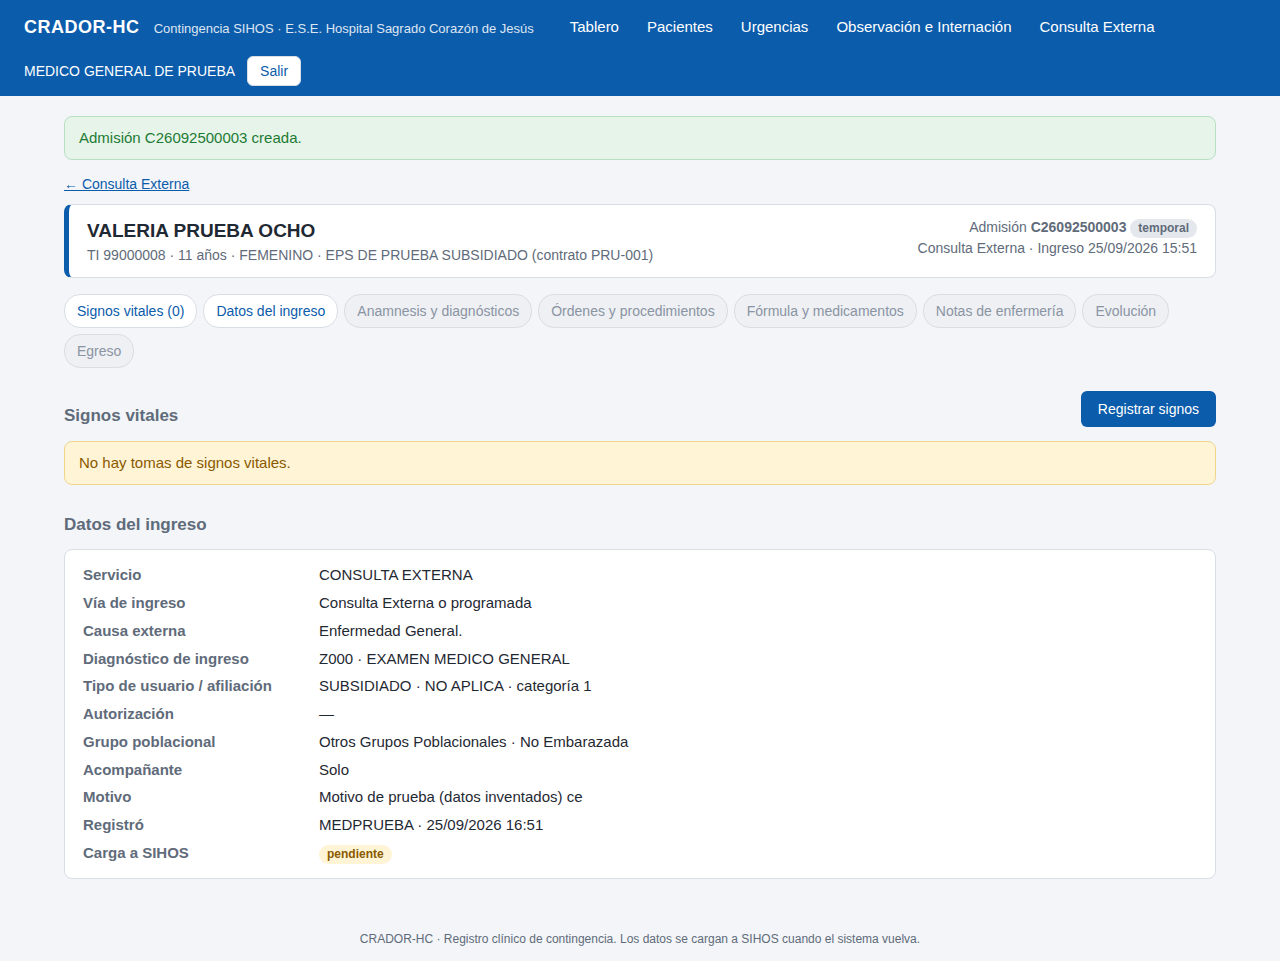
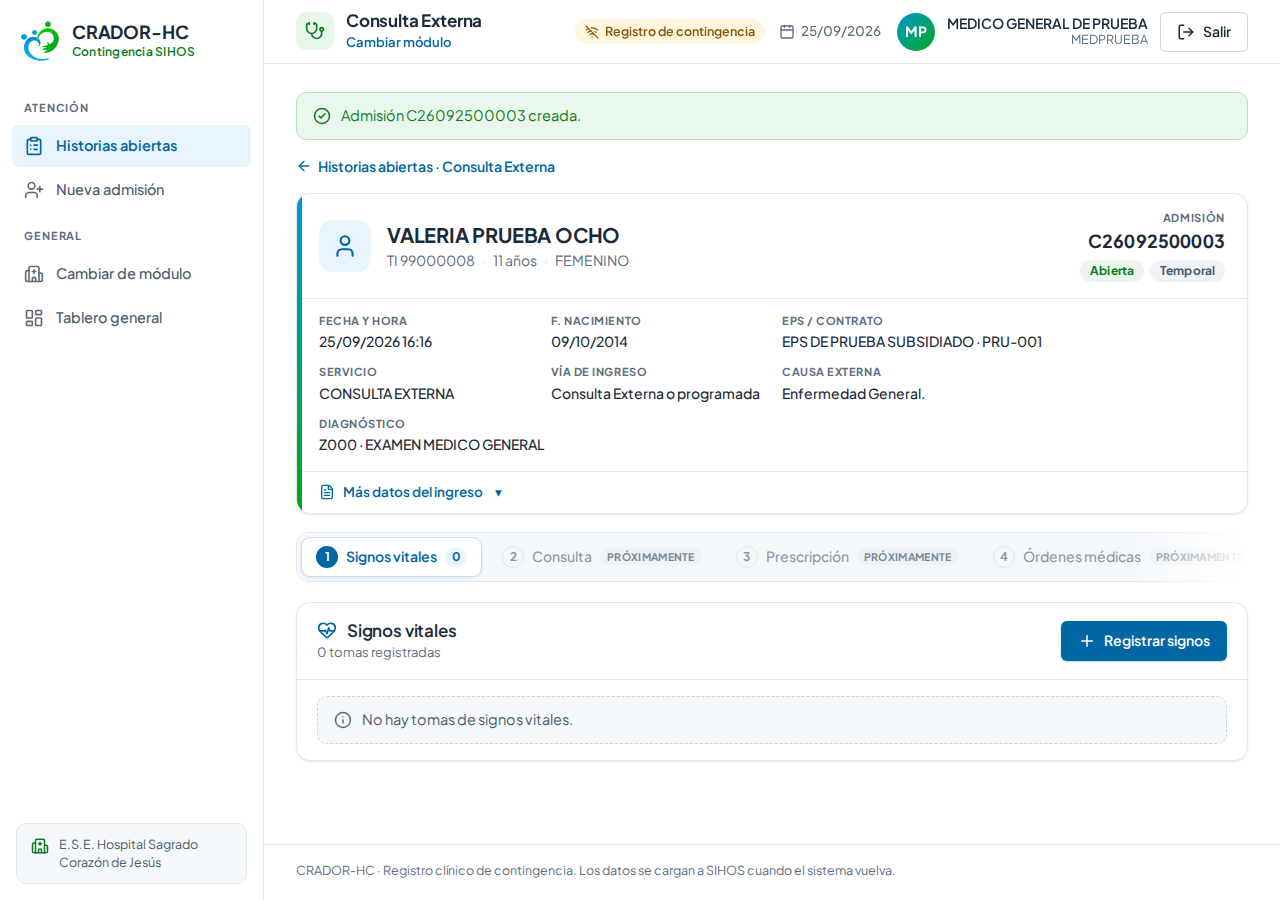
Rediseño: capturas finales, ajustes de tableta y documentación
- Barra superior en tableta: el aviso de contingencia se oculta si no cabe.
- Capturas nuevas en docs/capturas (01-19 con el nuevo diseño, 20-22 y 24 en
  celular, 23 selección de módulo) y el recorrido Playwright que las genera.
- README: sección de interfaz (flujo por módulo, sin CDN, licencias de fuente
  e íconos).

Claude-Session: https://claude.ai/code/session_017ALaGb5ozehGzL6nuyPcYx

diff --git a/docs/capturas/recorrido.js b/docs/capturas/recorrido.js
@@ -1,0 +1,117 @@
+const { chromium } = require('playwright');
+const B = 'http://localhost:8080/';
+const OUT = process.env.OUT || './capturas';
+const fs = require('fs'); fs.mkdirSync(OUT, { recursive: true });
+let n = 0;
+// Captura de pagina completa. num: numero fijo (si no, el siguiente de la secuencia 01..19)
+async function foto(p, nombre, num) {
+  if (!num) n++; const f = `${OUT}/${String(num || n).padStart(2, '0')}_${nombre}.png`;
+  await p.evaluate(() => window.scrollTo(0, 0)); await p.waitForTimeout(150);
+  await p.screenshot({ path: f, fullPage: true }); console.log('FOTO', f);
+}
+async function estado(p, etiqueta) {
+  const alertas = await p.$$eval('.alerta, .error-campo', els => els.map(e => e.innerText.trim()));
+  console.log('--', etiqueta, p.url(), JSON.stringify(alertas));
+}
+async function primeraOpcion(p, sel) {
+  const v = await p.$eval(sel, s => { const o = [...s.options].find(o => o.value); return s.value || (o ? o.value : ''); });
+  await p.selectOption(sel, v);
+}
+(async () => {
+  const br = await chromium.launch({ args: ['--lang=es-CO'] });
+  const p = await br.newPage({ viewport: { width: 1280, height: 900 }, locale: 'es-CO', timezoneId: 'America/Bogota' });
+  p.on('console', m => { if (m.type() === 'error') console.log('CONSOLE', m.text()); });
+  p.on('pageerror', e => console.log('PAGEERROR', e.message));
+  p.on('response', r => { if (r.status() >= 400) console.log('HTTP', r.status(), r.url()); });
+
+  await p.goto(B + 'login.php'); await foto(p, 'login');
+  await p.fill('#login', 'MEDPRUEBA'); await p.fill('#clave', 'malaclave');
+  await p.click('main button[type=submit]'); await estado(p, 'login malo');
+  await p.fill('#login', 'MEDPRUEBA'); await p.fill('#clave', 'prueba123');
+  await p.click('main button[type=submit]'); await p.waitForLoadState(); await estado(p, 'login');
+  await foto(p, 'seleccion_modulo', 23);
+  await p.click('a.modulo-urg'); await p.waitForLoadState(); await estado(p, 'modulo urgencias');
+  await p.goto(B + 'index.php'); await foto(p, 'tablero');
+
+  await p.goto(B + 'pacientes.php?q=PRUEBA'); await foto(p, 'pacientes_busqueda');
+
+  const nuevos = [
+    { doc: '99100001', nom: 'CARLOS', ape: 'FICTICIO', ape2: 'URGENCIAS', naci: '1985-04-12', sexo: 'M', eps: 'EPSP01', tu: '2', ta: 'D', mod: 'urg' },
+    { doc: '99000006', tipo: 'CC', existe: true, mod: 'obs' },
+    { doc: '99000008', tipo: 'TI', existe: true, mod: 'ce' },
+  ];
+  const adm = {};
+  for (const [i, x] of nuevos.entries()) {
+    if (!x.existe) {
+    await p.goto(B + 'paciente_nuevo.php?NumeUsua=' + x.doc);
+    await p.selectOption('#TipoDocu', 'CC');
+    await p.fill('#NombUsua', x.nom); await p.fill('#Ape1Usua', x.ape); await p.fill('#Ape2Usua', x.ape2);
+    await p.fill('#FechNaci', x.naci); await p.selectOption('#SexoUsua', x.sexo);
+    await p.fill('#DireResi', 'CALLE INVENTADA ' + (i + 1)); await p.fill('#TeleCelu', '300000010' + i);
+    await p.selectOption('#CodiAdmi', x.eps);
+    await p.waitForTimeout(500);
+    await primeraOpcion(p, '#NumeCont');
+    await p.selectOption('#TipoUsua', x.tu); await p.selectOption('#TipoAfil', x.ta);
+    if (i === 0) await foto(p, 'paciente_nuevo');
+    await p.click('main button[type=submit]'); await p.waitForLoadState();
+    await estado(p, 'paciente creado ' + x.doc);
+    if (i === 0) await foto(p, 'paciente_creado');
+    }
+
+    await p.goto(B + `admision_nueva.php?modulo=${x.mod}&TipoDocu=${x.tipo || 'CC'}&NumeUsua=${x.doc}`);
+    await estado(p, 'form admision ' + x.mod);
+    const h = new Date(Date.now() - 3600e3 - 5 * 3600e3); // hace 1 h, hora Colombia (UTC-5)
+    await p.fill('#HoraIngr', h.toISOString().slice(11, 16));
+    await p.fill('#DiagIngr', x.mod === 'urg' ? 'R101' : x.mod === 'obs' ? 'A09X' : 'Z000');
+    await p.fill('#MotiCons', 'Motivo de prueba (datos inventados) ' + x.mod);
+    if (x.mod === 'obs') await primeraOpcion(p, '#CodiCama');
+    await primeraOpcion(p, '#NumeCont');
+    await primeraOpcion(p, '#CodiEstr');
+    await foto(p, 'admision_nueva_' + x.mod);
+    await p.click('main button[type=submit]'); await p.waitForLoadState();
+    await estado(p, 'admision creada ' + x.mod);
+    adm[x.mod] = new URL(p.url()).searchParams.get('id');
+    await foto(p, 'ficha_' + x.mod);
+  }
+  console.log('ADM', JSON.stringify(adm));
+
+  // Triage en urgencias
+  await p.goto(B + 'triage.php?id=' + adm.urg);
+  await p.selectOption('#ClasTria', '3');
+  await p.fill('#MotiCons', 'ME DUELE EL ESTOMAGO DESDE AYER');
+  await p.fill('#HallClin', 'Paciente consciente, abdomen blando, dolor en epigastrio. Datos inventados.');
+  await p.fill('#PANume', '120'); await p.fill('#PADeno', '80'); await p.fill('#Pulso', '88');
+  await p.fill('#Respirac', '18'); await p.fill('#Temperat', '37.2'); await p.fill('#Saturaci', '97');
+  await p.fill('#Peso', '72'); await p.fill('#Talla', '170'); await p.fill('#Dolor', '6');
+  await foto(p, 'triage');
+  await p.click('main button[type=submit]'); await p.waitForLoadState(); await estado(p, 'triage guardado');
+
+  // Signos
+  await p.goto(B + 'signos.php?id=' + adm.urg);
+  await p.fill('#PANume', '118'); await p.fill('#PADeno', '76'); await p.fill('#Pulso', '82');
+  await p.fill('#Respirac', '17'); await p.fill('#Temperat', '36.8'); await p.fill('#Saturaci', '98');
+  await p.fill('#Dolor', '3'); await p.fill('#GlucMetr', '105');
+  await foto(p, 'signos');
+  await p.click('main button[type=submit]'); await p.waitForLoadState(); await estado(p, 'signos guardados');
+  await foto(p, 'ficha_urg_con_triage_y_signos');
+
+  for (const m of ['urg', 'obs', 'ce']) { await p.goto(B + 'admisiones.php?modulo=' + m); await foto(p, 'lista_' + m); }
+  await p.goto(B + 'index.php'); await foto(p, 'tablero_final');
+
+  // Celular (390x844): tablero, lista de urgencias y ficha
+  const m = await br.newPage({ viewport: { width: 390, height: 844 }, locale: 'es-CO', timezoneId: 'America/Bogota', isMobile: true, hasTouch: true });
+  await m.goto(B + 'login.php'); await m.fill('#login', 'MEDPRUEBA'); await m.fill('#clave', 'prueba123');
+  await m.click('main button[type=submit]'); await m.waitForLoadState();
+  await m.goto(B + 'index.php'); await foto(m, 'movil_tablero', 20);
+  await m.goto(B + 'admisiones.php?modulo=urg'); await foto(m, 'movil_lista_urg', 21);
+  await m.goto(B + 'admision.php?id=' + adm.urg); await foto(m, 'movil_ficha', 22);
+  await m.click('[data-menu-abrir]'); await m.waitForTimeout(400);
+  await m.screenshot({ path: `${OUT}/24_movil_menu.png` }); console.log('FOTO', `${OUT}/24_movil_menu.png`);
+  await m.close();
+
+  await p.click('header button[type=submit]'); await p.waitForLoadState(); await estado(p, 'salir');
+  await p.fill('#login', 'NIXON07'); await p.fill('#clave', 'prueba123');
+  await p.click('main button[type=submit]'); await p.waitForLoadState(); await estado(p, 'login admin');
+  await foto(p, 'tablero_administrador');
+  await br.close();
+})();

diff --git a/public/css/estilo.css b/public/css/estilo.css
@@ -923,3 +923,9 @@ tr[data-href] { cursor: pointer; }
     .ep-persona { align-items: flex-start; }
     .pestanas { padding-right: 32px; }
 }
+/* Barra superior: el modulo toma el espacio libre; el aviso de contingencia se oculta si no cabe */
+.superior-modulo { flex: 1 1 auto; }
+.superior-contexto { flex: 0 1 auto; }
+@media (max-width: 1150px) {
+    .superior-contexto { display: none; }
+}

diff --git a/docs/capturas/README.md b/docs/capturas/README.md
@@ -1,27 +1,43 @@
-# Capturas de pantalla (fase 2, bloque 1)
+# Capturas de pantalla (fase 2, bloque 1 · nuevo diseño)
 
 Tomadas el 25/09/2026 con la app corriendo en Docker (`docker compose up -d`) y los **datos de prueba
 inventados** (`docker compose exec db sh /crador/cargar_datos_prueba.sh`). Ningún dato es de pacientes reales.
-Usuario: `MEDPRUEBA` / `prueba123` (la última captura es con `NIXON07`, administrador).
+Usuario: `MEDPRUEBA` / `prueba123` (la captura 19 es con `NIXON07`, administrador).
+
+Se generan con `recorrido.js` (Playwright), que además comprueba el flujo completo: ingreso, elegir módulo,
+crear paciente, 3 admisiones (una por módulo), triage, toma de signos No. 2, salir e ingreso del administrador:
+
+```sh
+OUT=docs/capturas NODE_PATH=$(npm root -g) node docs/capturas/recorrido.js
+```
+
+Flujo: después del ingreso el profesional **elige el módulo** (23). Dentro del módulo la pantalla principal es
+**Historias abiertas** (15-17) y cada historia tiene el encabezado de la admisión y pestañas numeradas como en
+SIHOS (7, 9, 11, 14). El tablero (2, 18, 19) queda para el administrador y como opción "Tablero general".
 
 | # | Pantalla | Archivo |
 | --- | --- | --- |
 | 1 | Ingreso (login) | `01_login.png` |
-| 2 | Tablero | `02_tablero.png` |
-| 3 | Pacientes: búsqueda | `03_pacientes_busqueda.png` |
+| 2 | Tablero general | `02_tablero.png` |
+| 3 | Nueva admisión: búsqueda de pacientes | `03_pacientes_busqueda.png` |
 | 4 | Nuevo paciente | `04_paciente_nuevo.png` |
 | 5 | Paciente creado (búsqueda con botones para abrir admisión) | `05_paciente_creado.png` |
 | 6 | Nueva admisión · Urgencias | `06_admision_nueva_urg.png` |
-| 7 | Ficha de la admisión de Urgencias (sin triage) | `07_ficha_urg.png` |
+| 7 | Historia de Urgencias (sin triage) | `07_ficha_urg.png` |
 | 8 | Nueva admisión · Observación e Internación (con cama) | `08_admision_nueva_obs.png` |
-| 9 | Ficha de la admisión de Observación | `09_ficha_obs.png` |
+| 9 | Historia de Observación | `09_ficha_obs.png` |
 | 10 | Nueva admisión · Consulta Externa | `10_admision_nueva_ce.png` |
-| 11 | Ficha de la admisión de Consulta Externa | `11_ficha_ce.png` |
-| 12 | Triage (con signos vitales, IMC y PAM calculados) | `12_triage.png` |
+| 11 | Historia de Consulta Externa | `11_ficha_ce.png` |
+| 12 | Triage (orden de SIHOS, signos en fila compacta, IMC y TM calculados) | `12_triage.png` |
 | 13 | Toma de signos vitales | `13_signos.png` |
-| 14 | Ficha de Urgencias con triage y dos tomas de signos | `14_ficha_urg_con_triage_y_signos.png` |
-| 15 | Lista de Urgencias | `15_lista_urg.png` |
-| 16 | Lista de Observación e Internación | `16_lista_obs.png` |
-| 17 | Lista de Consulta Externa | `17_lista_ce.png` |
+| 14 | Historia de Urgencias con triage y dos tomas de signos | `14_ficha_urg_con_triage_y_signos.png` |
+| 15 | Historias abiertas · Urgencias | `15_lista_urg.png` |
+| 16 | Historias abiertas · Observación e Internación | `16_lista_obs.png` |
+| 17 | Historias abiertas · Consulta Externa | `17_lista_ce.png` |
 | 18 | Tablero después de registrar | `18_tablero_final.png` |
 | 19 | Tablero del administrador | `19_tablero_administrador.png` |
+| 20 | Celular · Tablero | `20_movil_tablero.png` |
+| 21 | Celular · Historias abiertas de Urgencias (filas como tarjetas) | `21_movil_lista_urg.png` |
+| 22 | Celular · Historia | `22_movil_ficha.png` |
+| 23 | Selección de módulo (después del ingreso) | `23_seleccion_modulo.png` |
+| 24 | Celular · Menú lateral abierto | `24_movil_menu.png` |

diff --git a/README.md b/README.md
@@ -13,6 +13,16 @@ E.S.E. Hospital Sagrado Corazón de Jesús.
 - **Usuarios:** los profesionales entran con su mismo login y clave de SIHOS.
 - **Carga a SIHOS:** solo el administrador (NIXON07), directo a la base de datos.
 
+## Interfaz
+
+- Después del ingreso el profesional **elige el módulo** (Urgencias, Observación e Internación o Consulta
+  Externa), como en SIHOS. La pantalla principal del módulo es **Historias abiertas**; cada historia muestra el
+  encabezado de la admisión y pestañas numeradas en el orden de SIHOS. El tablero es el inicio del administrador.
+- Funciona en PC, tableta y celular (menú lateral en cajón, tablas como tarjetas). Todo es local, sin CDN:
+  fuente Plus Jakarta Sans (`public/fonts`, licencia OFL), íconos Lucide en `public/img/iconos.svg` (licencia
+  ISC), CSS propio en `public/css/estilo.css` y JS propio en `public/js/`.
+- Capturas y recorrido de prueba: [`docs/capturas/`](docs/capturas/README.md).
+
 ## Regla principal
 
 Las tablas tienen **exactamente los mismos nombres y columnas que SIHOS** (ver `sql/`). Así la carga es un
